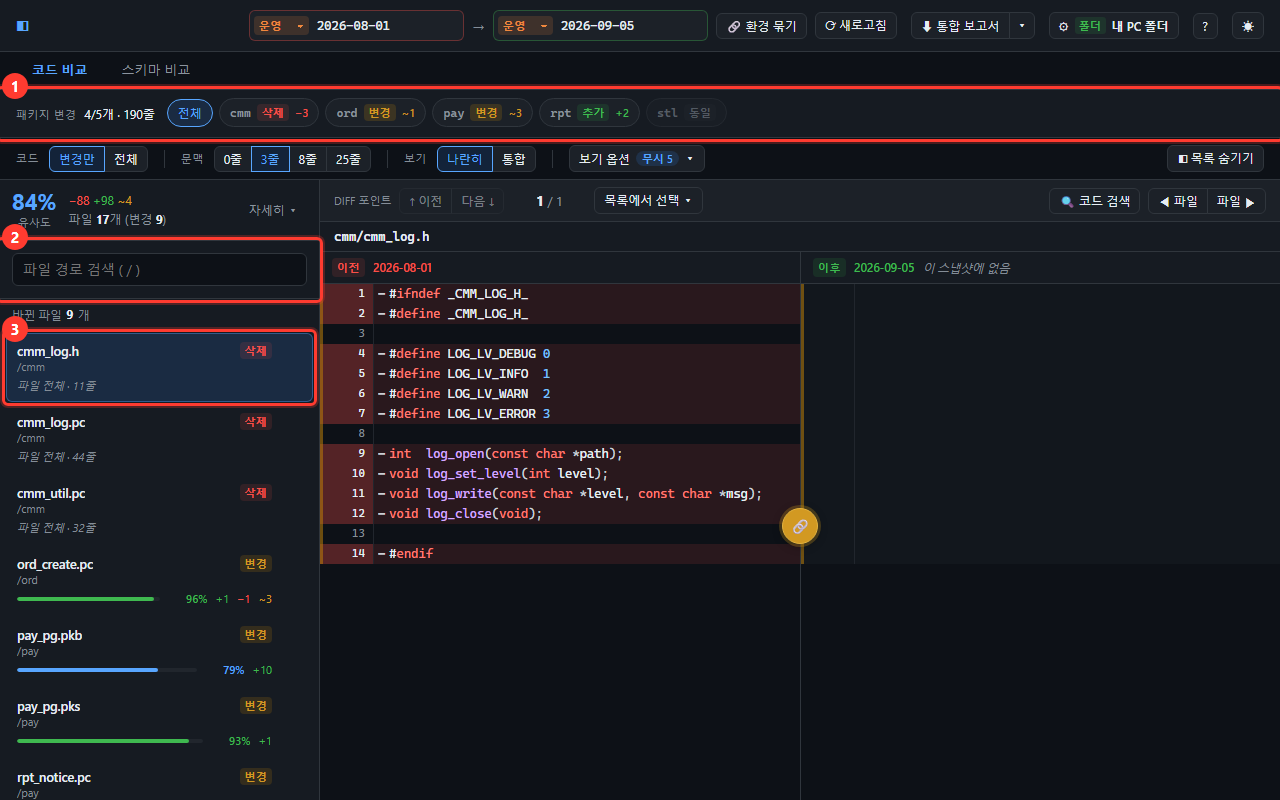
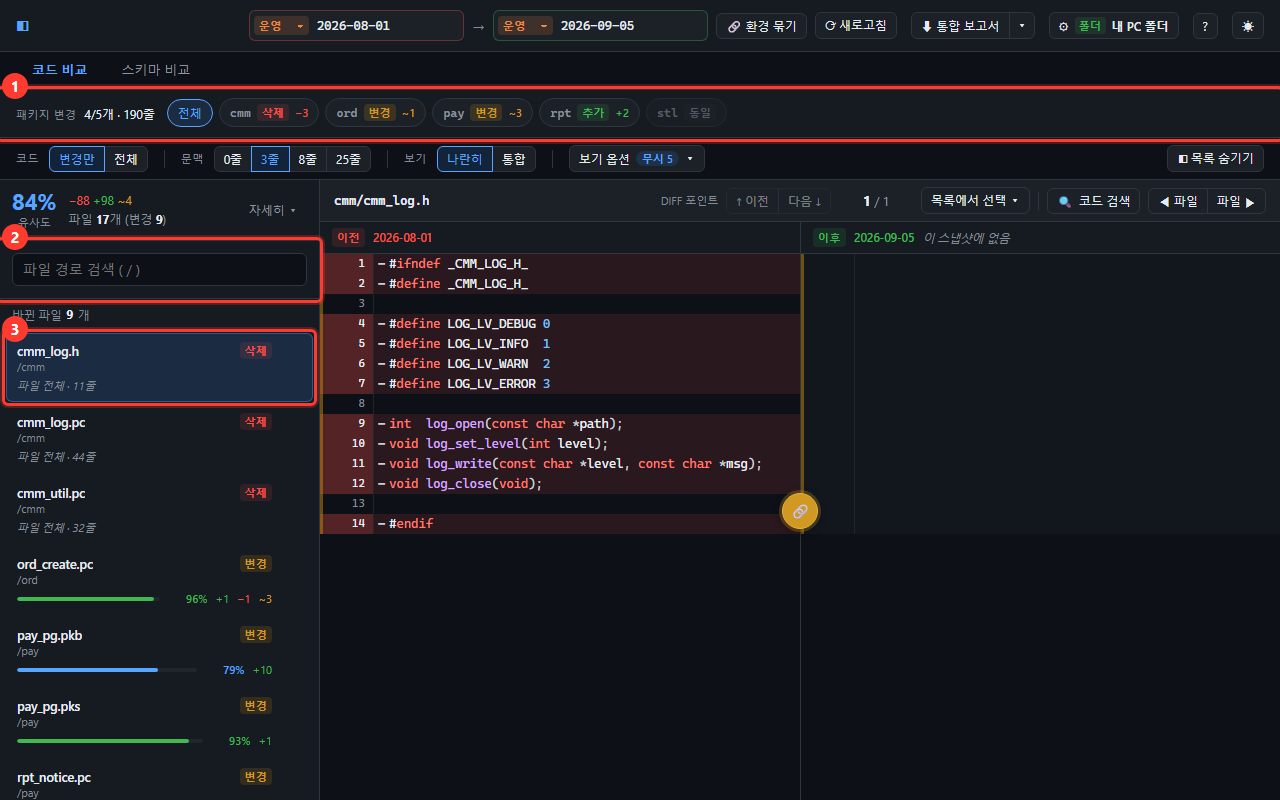
docs: 합친 이동 줄(왼쪽 파일 경로 · 오른쪽 이동 버튼)을 설명서와 README 에 반영한다
- 사용설명서 5-3 줄 모양 · 좁은 화면에서 글자가 접히는 것, README 화면 구성
- 스크린샷 다시 찍음, 한일 기록 추가

diff --git a/docs/한일/2026-10-23.md b/docs/한일/2026-10-23.md
@@ -177,3 +177,15 @@
 - 문서: 사용설명서 1 · 2 · 4 · 5 · 6 · 7 · 9 · 10장, README 화면 구성 · 단축키 · 제외 목록 갱신. 스크린샷 다시 찍고 3장 추가
   (11 보기 옵션 · 12 되돌리기 알림 · 13 도움말). 캡처는 애니메이션을 끄고, 6초 뒤 접히는 알림은 복제본으로 고정해 찍는다.
 - 외부 API 변경: 없음 (화면만 바뀜. localStorage 키 `cd-summary-open` 추가).
+
+---
+
+# 2026-10-23 — 파일 제목 줄과 DIFF 포인트 줄 합치기
+
+- 사용자 요청: 코드 위 가로줄이 많아 화면을 덜 쓴다 → 파일 이름 줄에 DIFF 포인트 줄을 합친다(이름 왼쪽, 이동 버튼 오른쪽).
+- 경로는 남는 폭을 쓰고 길면 `…` (툴팁에 전체). 1200px 이하에서는 `DIFF 포인트` · `코드 검색` 글자를 접어 경로 자리를 남긴다.
+  목록에서 선택 패널은 버튼이 오른쪽으로 갔으므로 오른쪽에 맞춰 연다.
+- 결과: 코드 본문 시작 1440×900 284 → 254px, 1024×768 280 → 250px. 1024px 에서도 한 줄(42px), 경로 칸 약 185px.
+- 줄 합치기 초안(옵션 바까지 한 줄)은 그림으로만 보여 주고 채택하지 않았다 — 임시 목업 파일은 지웠다.
+- 테스트 511개 통과. 사용설명서 5-3 · README 화면 구성 갱신, 스크린샷 다시 찍음.
+- 외부 API 변경: 없음.

diff --git a/README.md b/README.md
@@ -314,7 +314,7 @@ export const DEFAULT_ENV_ID = 'prod'
 | 패키지 변경 밴드 | 어느 패키지가 추가·삭제·변경됐는지 한 줄 요약. 칩을 누르면 그 패키지로 파일 목록이 좁혀진다 |
 | 옵션 바 | 코드 표시 범위(변경만/전체), 문맥 줄 수, 나란히/통합, **보기 옵션 ▾**(무시 옵션 · 줄바꿈 · 코드 글자 크기, 버튼에 켜 둔 무시 수) |
 | 왼쪽 목록 | 전체 유사도 한 줄 요약(`자세히 ▾` 로 지표 펼침) + 파일 목록. 바뀐 파일이 위, 동일한 파일은 맨 아래 `▾ 동일한 파일 N개` 로 접힌다(`SameFold`, `lib/changedFirst.ts`). 검색은 접기와 상관없이 전체 |
-| 오른쪽 | 선택한 파일의 diff. 좌우 동기 스크롤, diff 포인트 이동(이전/다음 · 목록), 코드 검색 |
+| 오른쪽 | 선택한 파일의 diff. 맨 위 한 줄에 파일 경로(왼쪽)와 diff 포인트 이동(이전/다음 · 목록) · 코드 검색 · 파일 이동(오른쪽), 좌우 동기 스크롤 |
 
 ### 코드 표시 범위
 

diff --git a/docs/사용설명서.md b/docs/사용설명서.md
@@ -632,11 +632,13 @@ rpt
 
 ### 5-3. 바뀐 곳으로 바로 이동하기
 
-코드 위쪽 **DIFF 포인트** 줄을 씁니다.
+코드 바로 위 줄을 씁니다. **왼쪽에 지금 보는 파일 경로**, 오른쪽에 이동 버튼이 있습니다.
 
 ```
-DIFF 포인트  [↑ 이전] [다음 ↓]   3 / 7   [목록에서 선택 ▾]
+ord/ord_create.pc            DIFF 포인트  [↑ 이전] [다음 ↓]   3 / 7   [목록에서 선택 ▾] | [🔍 코드 검색] [◀ 파일] [파일 ▶]
 ```
+
+화면이 좁으면 `DIFF 포인트` · `코드 검색` 글자가 접히고 버튼만 남습니다. 경로가 길면 끝이 `…` 로 줄고, 마우스를 올리면 전체가 나옵니다.
 
 - **다음 ↓ / ↑ 이전** — 바뀐 곳을 차례로 넘깁니다 (`n` / `p`). 화면이 그 자리로 스크롤됩니다.
 - **3 / 7** — 지금 7군데 중 3번째를 보고 있습니다.
